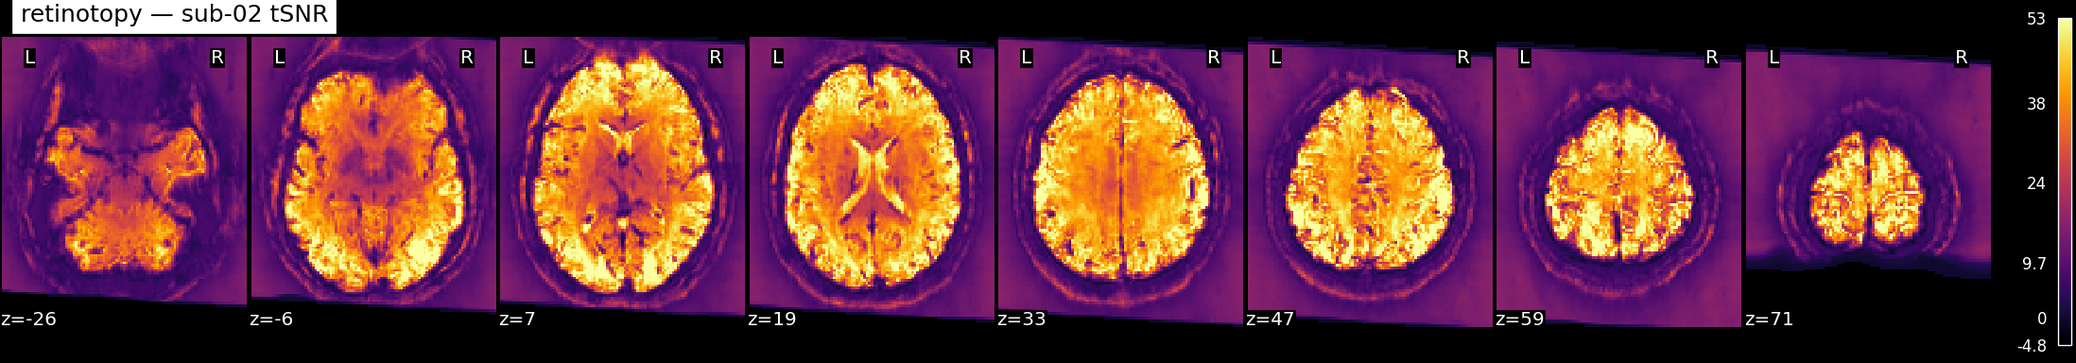
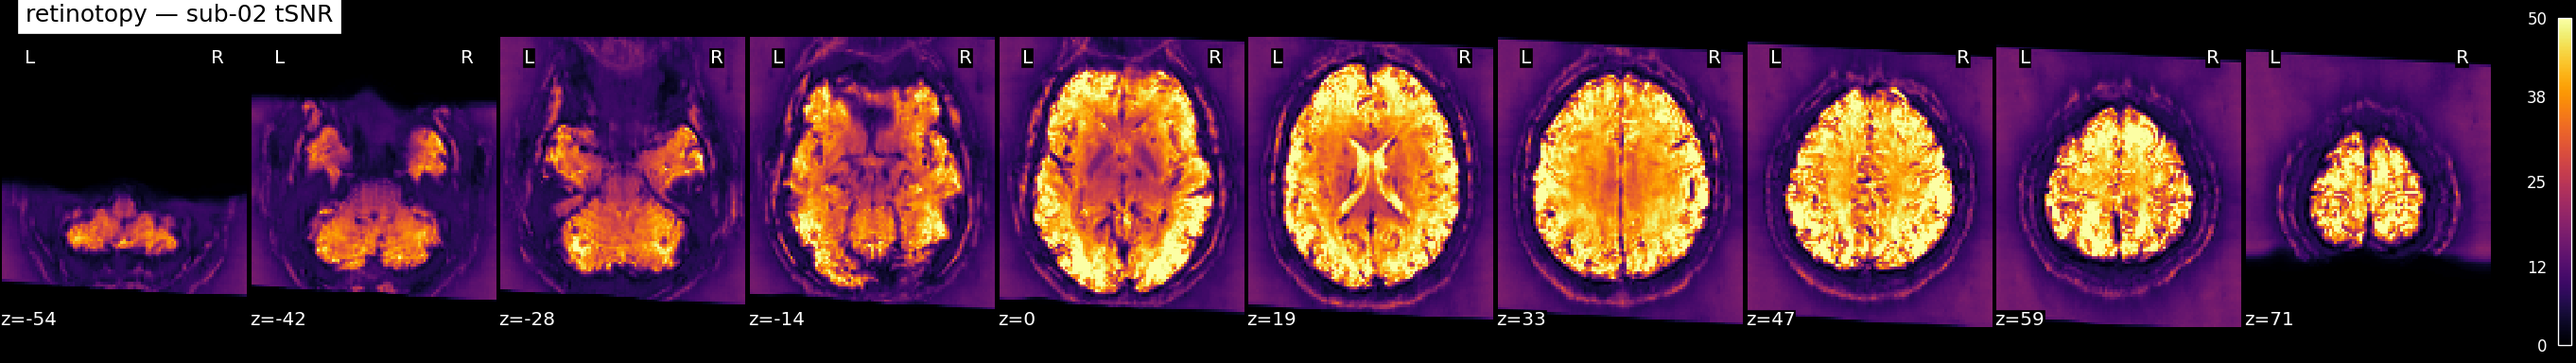
Use black_bg on tSNR coverage panels to fix washed-out white background
black_bg=False painted the whole canvas around/between the axial slices
plain white, which combined with the coverage overlay's transparency
read as if the transparency was bleeding into the background. Matching
the tSNR panels' black_bg=True fixes the contrast; figures regenerated
via invoke run-notebooks.

Claude-Session: https://claude.ai/code/session_01ESbnPcqU3SFwntVPoyrRwN

diff --git a/CLAUDE.md b/CLAUDE.md
@@ -105,14 +105,24 @@ compatibility). Linter: **ruff** (`uv run ruff check .`). No test framework.
     ventral/orbitofrontal dropout tSNR QA must show. The `tsnr` scalar column in
     `qc_measures` (an MRIQC IQM) is a different, unrelated thing from these
     voxelwise statmaps.
-    - **Cut coordinates are chosen once per dataset, from that dataset's average
-      map, then reused for every subject panel in it** (via
-      `nilearn.plotting.find_cut_slices` on the average, not
-      `plot_stat_map`'s own autoselection per image). Autoselecting
-      independently per subject picked different slices for each panel, making
-      them hard to compare; anchoring on the average — the least noisy signal —
-      keeps a dataset's average and all its subject panels on the same axial
-      slices.
+    - **One fixed set of cut coordinates and color ranges for every panel** —
+      every dataset, every subject, the grand average, and every coverage
+      panel (`CUT_COORDS`, `TSNR_VMIN`/`TSNR_VMAX`, `COVERAGE_VMIN`/
+      `COVERAGE_VMAX` in the notebook). Earlier versions picked slices
+      per-dataset via `nilearn.plotting.find_cut_slices` on that dataset's
+      average and computed a per-run 98th-percentile `vmax`; both were
+      replaced with hard-coded constants so every panel across every dataset
+      is sliced and colored identically and stays numerically comparable
+      across notebook re-runs, not just within one dataset.
+      `CUT_COORDS = (-54, -42, -28.5, -14.5, -0.5, 19.5, 33.5, 47.5, 59.5,
+      71.5)` was chosen once by running `find_cut_slices(grand_average,
+      direction="z", n_cuts=8)` (which gave the 8 values from -28.5 up) and
+      extending it with two fixed inferior slices (-54, -42): `find_cut_slices`
+      alone is cortex-heavy and reliably misses the cerebellum (at best it
+      grazes its superior edge), so those two are hard-coded in rather than
+      left to chance. `TSNR_VMIN`/`TSNR_VMAX` are fixed at `0`/`50` and
+      `COVERAGE_VMIN`/`COVERAGE_VMAX` at `0`/`1` (coverage is already a
+      fraction) rather than a computed ceiling.
     - **Light v1 — only datasets that ship an upstream `stat-avgtsnr`** (floc,
       retinotopy, things at the time of writing). Datasets with only run-level
       `stat-tsnr` maps (hcptrt, friends, …) are **skipped with a warning** in the
